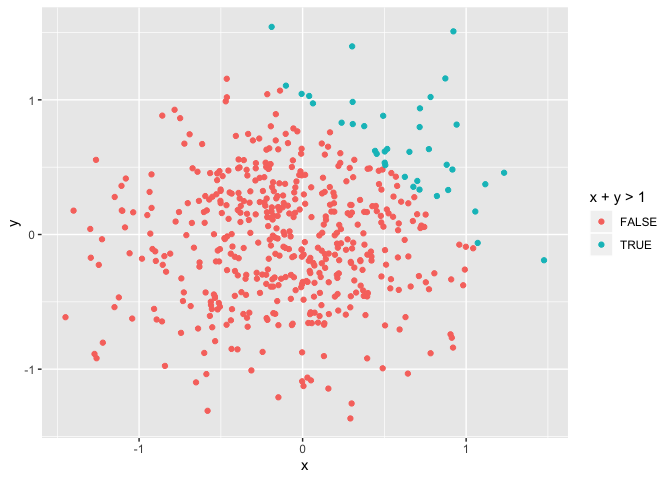
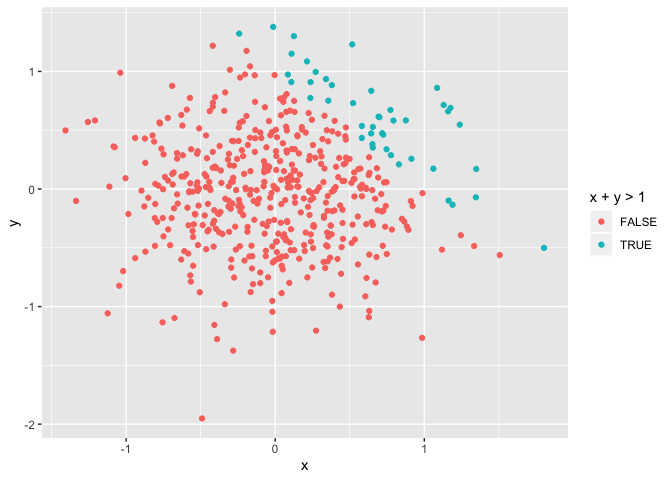
knitted the entire thing

diff --git a/p8105_hw1_LG2982.md b/p8105_hw1_LG2982.md
@@ -16,9 +16,9 @@ problem_1_df%>%
 ```
 
     ## # A tibble: 1 x 1
-    ##    meanx
-    ##    <dbl>
-    ## 1 -0.370
+    ##     meanx
+    ##     <dbl>
+    ## 1 -0.0151
 
 ``` r
 problem_1_df%>%
@@ -28,7 +28,7 @@ problem_1_df%>%
     ## # A tibble: 1 x 1
     ##   meanlog
     ##     <dbl>
-    ## 1   0.125
+    ## 1     0.5
 
 ``` r
 problem_1_df%>%
@@ -96,7 +96,7 @@ problem_2_df = tibble(
     ## # A tibble: 1 x 3
     ##    mean_x `sd(x)` `median(x)`
     ##     <dbl>   <dbl>       <dbl>
-    ## 1 -0.0633   0.508     -0.0683
+    ## 1 0.00927   0.519      0.0113
 
 ``` r
   problem_2_df%>%
@@ -107,8 +107,8 @@ problem_2_df = tibble(
     ## # A tibble: 2 x 3
     ##   `x + y > 1`     n  freq
     ##   <lgl>       <int> <dbl>
-    ## 1 FALSE         462 0.924
-    ## 2 TRUE           38 0.076
+    ## 1 FALSE         456 0.912
+    ## 2 TRUE           44 0.088
 
 ``` r
 ggplot(problem_2_df, aes(x = x, y = y, color = x + y > 1)) + geom_point() # colored scatterplot where blue are x + y > 1 and pink are the values x + y =< 1
@@ -117,6 +117,8 @@ ggplot(problem_2_df, aes(x = x, y = y, color = x + y > 1)) + geom_point() # colo
 ![](p8105_hw1_LG2982_files/figure-gfm/Problem_2-1.png)<!-- -->
 
 ``` r
+ggsave("scatter_plot_1.pdf", height = 4, width = 6)
+
 ggplot(problem_2_df, aes(x = x, y = y, color = vec_char)) + geom_point() # colored scatterplot where darker blue are the vaues are closer to zero and lighter blue are those closer to 1
 ```
 
